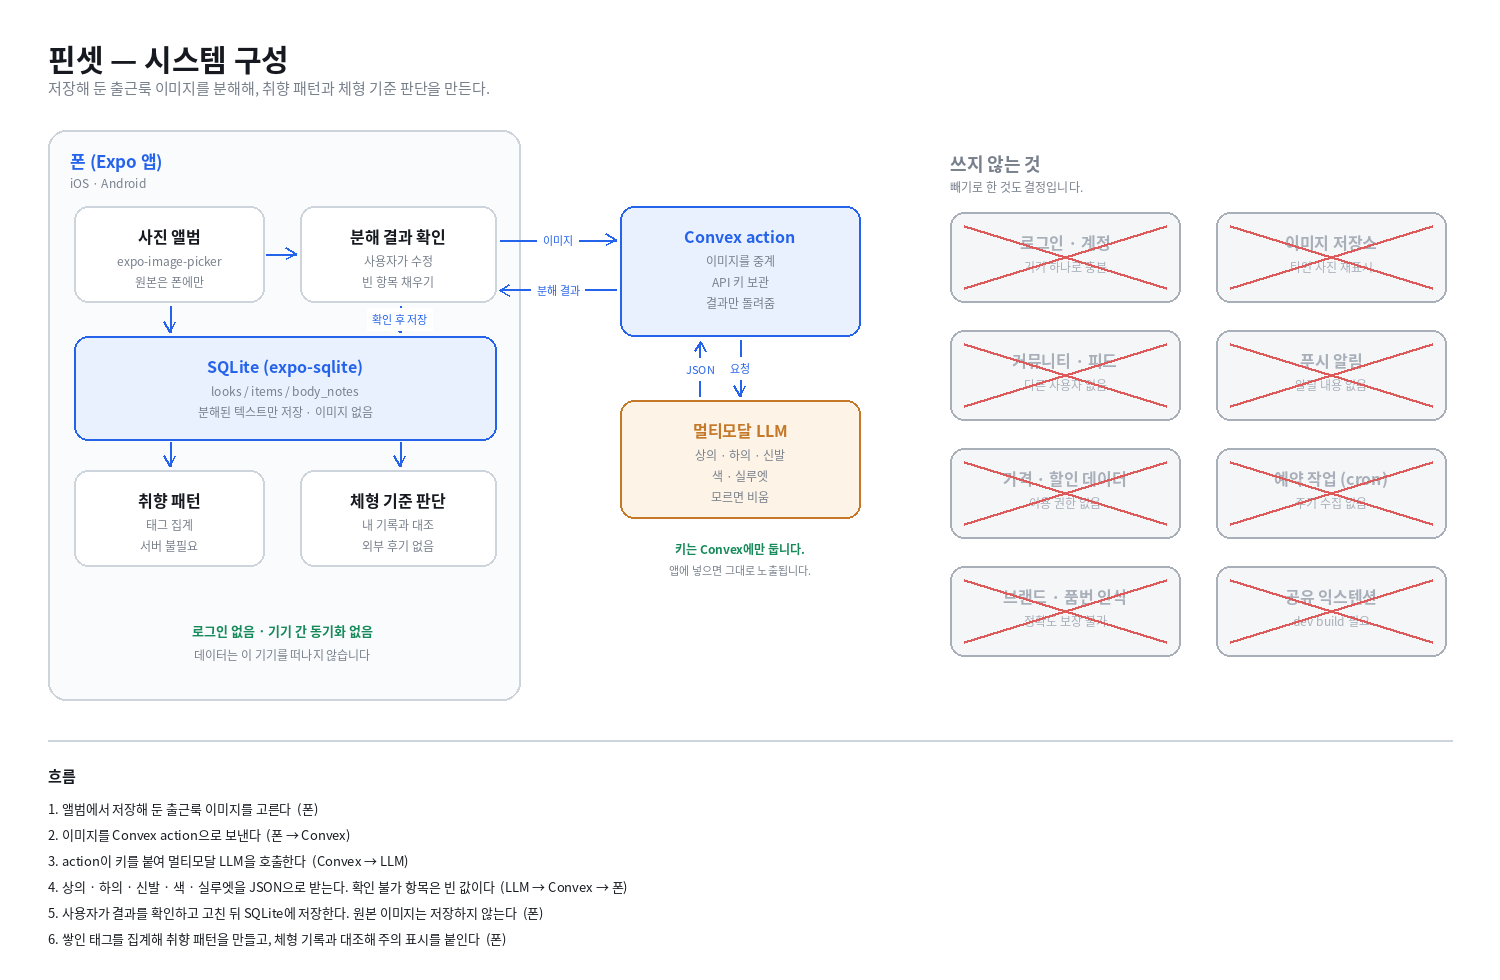
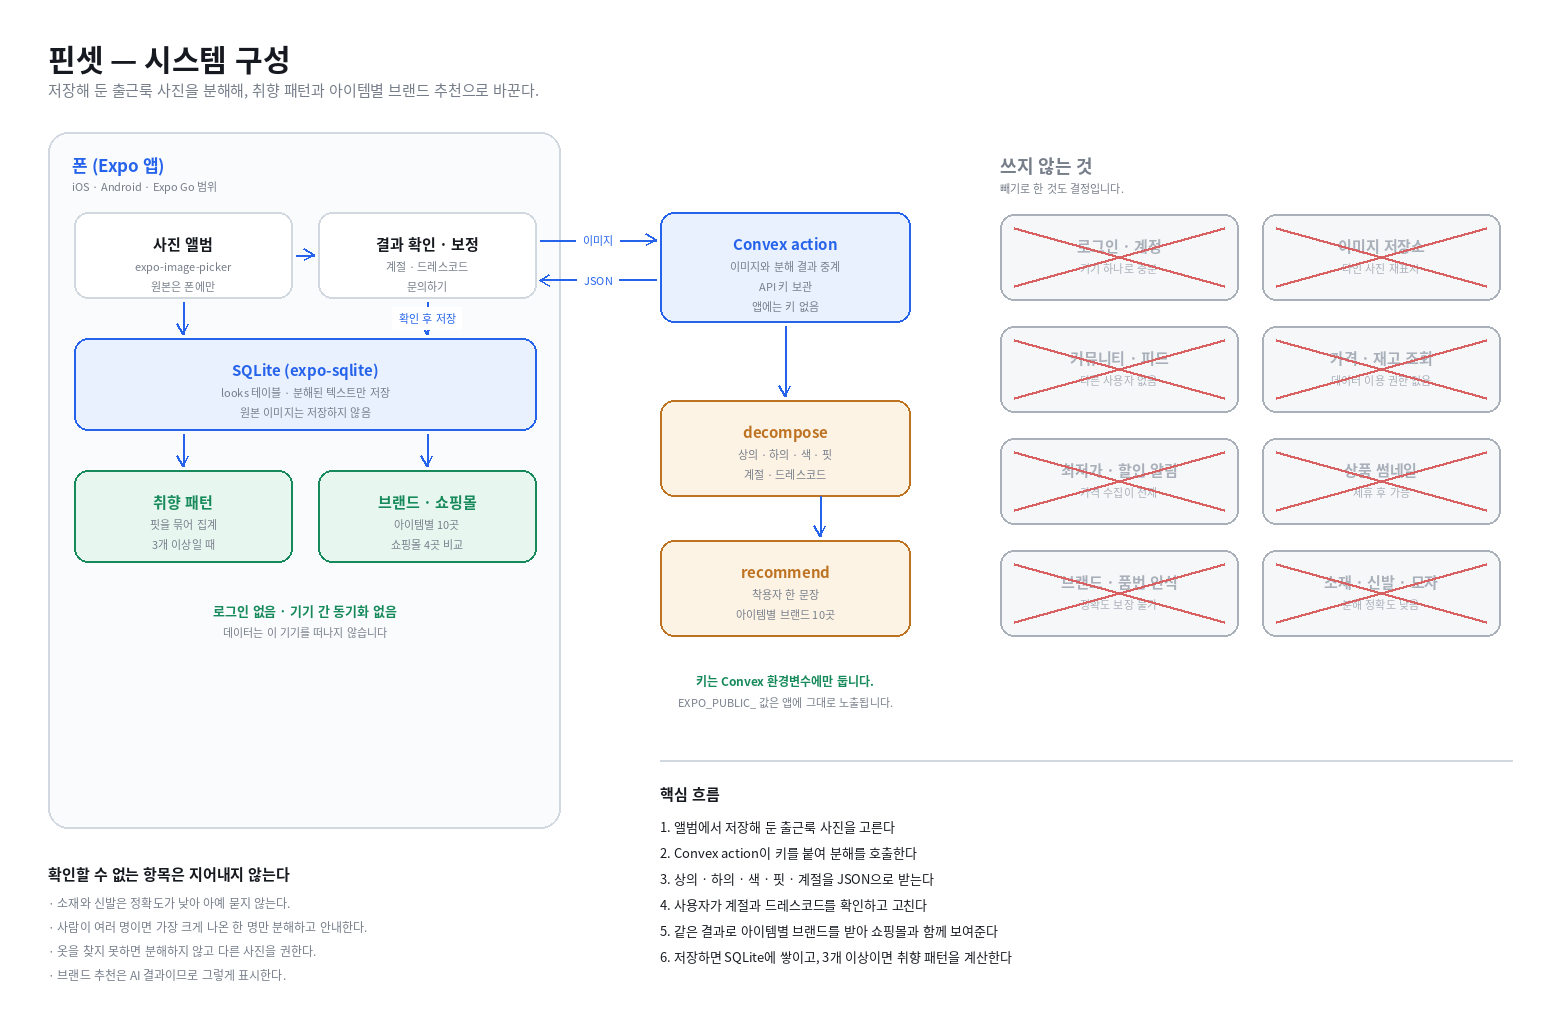
Update architecture diagram and system design

diff --git a/docs/02-system-design.md b/docs/02-system-design.md
@@ -2,11 +2,11 @@
 
 ## Overview
 
-폰에서 도는 Expo 앱 하나와, 이미지 분해 요청을 중계하는 Convex action 하나로 이루어집니다.
+폰에서 도는 Expo 앱 하나와, AI 호출을 중계하는 Convex action 두 개로 이루어집니다.
 
-저장해 둔 출근룩 이미지를 분해하려면 멀티모달 LLM을 호출해야 하고, 그 호출에는 API 키가 필요합니다. 키를 앱에 넣으면 그대로 노출되므로 서버가 필요합니다. Convex action은 그 한 가지 일만 합니다. 거래 데이터에 해당하는 분해 결과는 전부 폰의 SQLite에 저장하므로, Convex에는 아무것도 쌓이지 않습니다.
+저장해 둔 출근룩 사진을 분해하고 브랜드를 추천하려면 멀티모달 LLM을 호출해야 하고, 그 호출에는 API 키가 필요합니다. 키를 앱에 넣으면 그대로 노출되므로 서버가 필요합니다. Convex action은 그 두 가지 호출만 중계하며, 아무 데이터도 저장하지 않습니다.
 
-취향 패턴과 체형 기준 판단은 저장된 태그를 집계하는 일이라 서버 없이 폰에서 계산합니다.
+분해 결과는 전부 폰의 SQLite에 쌓입니다. 취향 패턴은 저장된 태그를 집계하는 일이라 서버 없이 폰에서 계산합니다.
 
 ## Diagram
 
@@ -14,83 +14,110 @@
 
 ## Core flow
 
-1. 앨범에서 저장해 둔 출근룩 이미지를 고른다 — 폰 (`expo-image-picker`)
-2. 이미지를 Convex action으로 보낸다 — 폰 → Convex
-3. action이 환경변수의 키를 붙여 멀티모달 LLM을 호출한다 — Convex → LLM
-4. 상의·하의·신발·색·실루엣을 JSON으로 받는다. 확인할 수 없는 항목은 빈 값이다 — LLM → Convex → 폰
-5. 사용자가 결과를 확인하고 고친 뒤 SQLite에 저장한다. 원본 이미지는 저장하지 않는다 — 폰
-6. 쌓인 태그를 집계해 취향 패턴을 만들고, 체형 기록과 대조해 주의 표시를 붙인다 — 폰
+1. 앨범에서 저장해 둔 출근룩 사진을 고른다 — 폰 (`expo-image-picker`, quality 0.6으로 압축)
+2. 이미지를 `decompose` action으로 보낸다 — 폰 → Convex
+3. action이 환경변수의 키를 붙여 Claude Haiku를 호출한다 — Convex → LLM
+4. 상의·하의의 종류·색·핏, 실루엣, 계절, 드레스코드를 JSON으로 받는다 — LLM → Convex → 폰
+5. 사용자가 계절과 드레스코드를 칩으로 확인하고 고친다 — 폰
+6. 같은 결과를 `recommend` action으로 보내 아이템별 브랜드 10곳을 받는다 — 폰 → Convex → LLM → 폰
+7. 저장하면 SQLite에 쌓이고, 같은 묶음이 3개 이상이면 취향 패턴을 계산한다 — 폰
 
 ## Data
 
-데이터는 전부 폰의 SQLite(`expo-sqlite`)에 둡니다. 원본 이미지는 저장하지 않고, 분해된 텍스트만 남깁니다.
+데이터는 전부 폰의 SQLite(`expo-sqlite`)에 둡니다. 원본 이미지는 저장하지 않고 분해된 텍스트만 남깁니다.
 
-**looks** — 분해한 착장 한 벌
-`id, createdAt, sourceHint, silhouette, dressCode, memo`
+**looks**
+`id INTEGER PK AUTOINCREMENT, createdAt INTEGER, payload TEXT`
 
-**items** — 착장을 이루는 아이템
-`id, lookId, slot(top/bottom/shoes), category, color, fit, length, material, confidence(확실/추정/확인불가)`
+`payload`는 분해 결과 전체를 담은 JSON입니다. 스키마가 자주 바뀌는 단계라 컬럼으로 펼치지 않고 통째로 저장합니다.
 
-**body_notes** — 본인 체형과 과거 기록
-`id, kind(체형/실패/성공), silhouette, note`
+**키: `id`.**
+같은 사진을 두 번 분해해도 사용자가 두 번 저장한 것이므로 다른 행입니다. 중복을 막지 않는 것이 의도입니다. 사진은 저장하지 않으므로 내용으로 같은 행을 식별할 방법이 없고, 같은 룩을 반복 저장하는 것 자체가 취향 신호이기 때문입니다.
 
-**키: looks는 `id`, items는 `(lookId, slot)`.**
-한 착장에 상의·하의·신발이 각각 하나씩이므로, 같은 착장의 같은 자리는 같은 행입니다. 레이어드는 별도 행이 아니라 상의 행의 속성으로 둡니다. 그래야 같은 사진을 두 번 넣어도 중복이 생기지 않습니다.
+브랜드 추천 결과는 저장하지 않습니다. 매번 다시 받는 쪽이 최신이고, 저장해도 재사용 시점이 없습니다.
 
-`AsyncStorage`는 본인 체형 입력을 마쳤는지 같은 설정값에만 씁니다. `SecureStore`는 쓰지 않습니다. 앱이 보관할 비밀 값이 없기 때문입니다.
+`AsyncStorage`와 `SecureStore`는 쓰지 않습니다. 앱이 보관할 비밀 값이 없습니다.
 
 ## Data sources
 
 **① 저장해 둔 이미지 — 폰 기능 (사진 앨범 권한)**
 
-`expo-image-picker`로 앨범에서 고릅니다. Expo Go에서 동작하므로 development build가 필요 없습니다. 가져오는 시점은 사용자가 요청할 때뿐이고, 앱이 앨범을 훑지 않습니다.
+`expo-image-picker`로 앨범에서 고릅니다. Expo Go에서 동작하므로 development build가 필요 없습니다. 사용자가 요청할 때만 가져오고, 앱이 앨범을 훑지 않습니다.
 
-한계: 인스타그램이나 핀터레스트 앱 안의 저장함에는 접근할 수 없습니다. 사용자가 스크린샷을 찍어 앨범에 둔 것만 가져올 수 있습니다. 공유 익스텐션을 만들면 해결되지만 development build가 필요해 이번 범위에서 제외했습니다.
+한계: 인스타그램이나 핀터레스트 앱 안의 저장함에는 접근할 수 없습니다. 스크린샷을 찍어 앨범에 둔 것만 가져올 수 있습니다. 공유 익스텐션으로 해결되지만 development build가 필요해 제외했습니다.
 
-**② 이미지 분해 — 멀티모달 LLM**
+원본 크기로 보내면 요청이 너무 커서 실패합니다. `quality: 0.6`으로 압축해 보냅니다.
 
-실제로 한 번 불러본 결과: `docs/samples/decompose-sample.json`
+**② 이미지 분해 — Claude Haiku (멀티모달)**
 
-출근룩 이미지 4장을 넣어 확인했습니다. 상의·하의의 종류와 색, 실루엣은 4/4 정확했습니다. 신발은 2/4만 가능했고, 바지에 가리거나 프레임 밖인 경우 판단할 수 없었습니다. 소재는 0/4로, 어느 장에서도 확정하지 못했습니다. 역광에서는 어두운 상의의 조직이 날아갔습니다.
+실제로 불러본 결과: `docs/samples/decompose-sample.json`, `docs/samples/decompose-live.json`
 
-이 결과를 보고 설계를 바꿨습니다. **확인할 수 없는 항목은 지어내지 않고 빈 값으로 돌려받아, 사용자가 채우게 합니다.** `confidence` 필드가 그래서 생겼습니다.
+출근룩 이미지 4장으로 확인했습니다. 상의·하의의 종류와 색, 실루엣은 4/4 정확했습니다. 신발은 2/4만 가능했고, 바지에 가리거나 프레임 밖인 경우 판단할 수 없었습니다. 소재는 0/4로 어느 장에서도 확정하지 못했습니다.
 
-한계: 아직 API 키가 없어 수동 호출로 확인했습니다. 앱에서는 같은 요청을 Convex action이 보냅니다. 호출당 비용이 들고, 네트워크가 없으면 분해할 수 없습니다.
+이 결과를 보고 설계를 바꿨습니다. **소재·신발·모자·가방은 아예 묻지 않습니다.** 정확도가 낮은 항목을 지우는 것이 비워 두는 것보다 낫다고 판단했습니다. 계절과 드레스코드는 추정이 가능하되 틀릴 수 있어, 추정값을 미리 선택해 두고 사용자가 칩으로 고칩니다.
 
-막히면: 분해 정확도가 실사용에서 더 낮으면, 자동 분해를 빼고 사용자가 태그를 직접 고르는 형태로 좁힙니다. 취향 패턴과 체형 판단은 태그만 있으면 그대로 동작합니다.
+사람이 여러 명이면 가장 크게 나온 한 명만 분해하고 `multiple: true`를 함께 돌려받아 화면에 안내합니다. 옷을 알아볼 수 없으면 `{"error": "no_clothes"}`만 돌려받고 분해하지 않습니다.
 
-**③ 체형 기록 — 사용자 입력**
+한계: 호출당 비용이 들고, 네트워크가 없으면 분해할 수 없습니다.
 
-본인이 한 번 입력합니다. 외부에서 가져오지 않습니다.
+**③ 브랜드 추천 — Claude Haiku (텍스트)**
 
-비슷한 체형인 사람들의 후기를 모아 보여주는 방식도 검토했지만, 무신사·29CM·지그재그의 공개 자료에서 외부 앱이 리뷰 데이터를 가져와 재표시할 권한은 확인하지 못했습니다. 크롤링은 데이터베이스권과 부정경쟁방지법 문제가 있어 선택지에서 제외했습니다.
+분해 결과와 성별을 넣어 착용자 한 문장과 아이템별 브랜드 10곳을 받습니다. 상의·겹쳐 입은 이너·하의 각각에 따로 추천합니다.
+
+한계: LLM이 존재하지 않는 브랜드를 만들어낼 수 있습니다. 화면에 "AI 추천이라 실제와 다를 수 있어요"를 표시하고, 탭하면 쇼핑몰 검색으로 연결해 결과가 비어도 치명적이지 않게 했습니다.
+
+응답이 길어 5~10초 걸립니다. 분해 결과를 먼저 보여주고 브랜드는 뒤이어 채웁니다.
+
+**④ 쇼핑몰 가격 — 쓰지 않음**
+
+앱 안에서 가격을 보여주려면 각 쇼핑몰의 상품 데이터를 가져와야 합니다. 무신사·29CM·지그재그의 공개 자료에서 외부 앱이 전 상품 가격을 조회·저장·재표시할 수 있는 API와 이용 조건은 확인하지 못했습니다. 큐레이터 프로그램은 링크 공유 권한이지 데이터 이용 권한이 아닙니다. 네이버 쇼핑 검색 API는 2026년 7월 31일 종료됐습니다. 크롤링은 데이터베이스권과 부정경쟁방지법 문제가 있어 제외했습니다.
+
+대신 브랜드마다 쇼핑몰 네 곳의 검색 링크를 두어, 사용자가 하나씩 눌러 가격을 비교하게 했습니다. 앱이 가격을 못 가져오는 제약은 그대로 두되 목적은 달성하는 구조입니다.
 
 ## Decisions
 
-### 이미지 분해는 Convex action을 거친다
+### AI 호출은 Convex action을 거친다
 
 | | |
 |---|---|
-| 선택지 | 앱에서 LLM 직접 호출 · Convex action 경유 · 기기 내 모델 |
+| 선택지 | 앱에서 직접 호출 · Convex action 경유 · 기기 내 모델 |
 | 고른 것 | Convex action 경유 |
-| 이유 | API 키를 앱에 넣으면 그대로 노출됩니다. `EXPO_PUBLIC_`으로 시작하는 값은 빌드에 포함됩니다. 기기 내 모델은 Expo Go에서 돌지 않고 development build가 필요합니다. |
-| 대가 | 네트워크가 없으면 분해할 수 없고, 호출마다 비용이 듭니다. |
+| 이유 | API 키를 앱에 넣으면 그대로 노출됩니다. `EXPO_PUBLIC_`으로 시작하는 값은 빌드에 포함됩니다. 기기 내 모델은 Expo Go에서 돌지 않습니다. |
+| 대가 | 네트워크가 없으면 동작하지 않고, 호출마다 비용이 듭니다. |
 
-### 분해 결과만 저장하고 원본 이미지는 폰에 둔다
+### 정확도가 낮은 항목은 묻지 않는다
 
 | | |
 |---|---|
-| 선택지 | 원본을 서버에 저장 · 원본을 폰에만 두고 텍스트만 저장 |
-| 고른 것 | 텍스트만 저장 |
-| 이유 | 입력 이미지는 대부분 타인의 사진입니다. 서버에 올려 다시 보여주면 권리 문제가 생깁니다. 텍스트 분해 결과에는 그 문제가 없고, 취향 패턴과 체형 판단에는 텍스트만 있으면 충분합니다. |
-| 대가 | 폰에서 원본을 지우면 어떤 사진이었는지 다시 볼 수 없습니다. 기기를 바꾸면 데이터가 사라집니다. |
+| 선택지 | 전부 묻고 빈 값 허용 · 정확도 낮은 항목 제거 · 전부 사용자 입력 |
+| 고른 것 | 소재·신발·모자·가방 제거, 계절·드레스코드는 추정 후 칩으로 보정 |
+| 이유 | 측정 결과 소재 0/4, 신발 2/4였습니다. 틀린 값을 보여주면 전체 신뢰가 떨어지고, 매번 되묻는 절차는 사용자가 중간에 그만두는 원인이 됩니다. |
+| 대가 | 신발을 기준으로 한 추천과 패턴은 불가능합니다. |
 
-### iOS와 Android 둘 다 내되, Expo Go 범위 안에서만 만든다
+### 가격 대신 쇼핑몰 링크를 여러 개 둔다
+
+| | |
+|---|---|
+| 선택지 | 앱 안에 가격 표시 · 최저가 비교 · 브랜드별 쇼핑몰 링크 |
+| 고른 것 | 브랜드별 쇼핑몰 링크 네 곳 |
+| 이유 | 가격 데이터를 가져올 권한이 확인되지 않았습니다. 링크는 권한이 필요 없고, 사용자는 한 번 더 탭해서 가격을 봅니다. |
+| 대가 | 앱 안에서 가격을 비교할 수 없고, 상품 썸네일도 보여줄 수 없습니다. 제휴가 성사되면 다시 검토합니다. |
+
+### 패턴은 핏을 묶어서 센다
+
+| | |
+|---|---|
+| 선택지 | 핏 원값으로 집계 · 상·하의 최빈값 따로 · 핏을 묶어 조합으로 집계 |
+| 고른 것 | 붙는·적당한·넉넉한 세 묶음으로 바꿔 조합 단위로 집계 |
+| 이유 | 상·하의 최빈값을 따로 뽑으면 실제로 저장한 적 없는 조합이 만들어집니다. 핏 원값은 열 가지라 저장이 쌓여도 겹치지 않습니다. |
+| 대가 | "크롭 + 부츠컷"처럼 세밀한 패턴은 잡히지 않습니다. 화면의 개별 카드에는 원값을 그대로 보여줍니다. |
+
+### iOS와 Android 둘 다 내되 Expo Go 범위 안에서만 만든다
 
 | | |
 |---|---|
 | 선택지 | 한쪽만 · 둘 다 (Expo Go) · 둘 다 (development build) |
 | 고른 것 | 둘 다, Expo Go 범위 |
-| 이유 | 이번 기능은 앨범 접근과 네트워크 호출뿐이라 Expo Go에서 전부 됩니다. development build를 쓰면 빌드 환경을 두 플랫폼에 각각 갖춰야 하는데, 1인 3주에서 그 시간을 쓸 이유가 없습니다. |
-| 대가 | 공유 익스텐션과 기기 내 모델을 쓸 수 없습니다. 그래서 인스타그램에서 바로 보내는 흐름을 포기하고 앨범에서 고르는 방식으로 좁혔습니다. |
-| 위험 | iOS 베타 배포에는 Apple Developer 계정과 TestFlight 첫 빌드 심사가 필요합니다. 아직 계정이 없어, 이것이 11/20 배포의 가장 큰 일정 위험입니다. 11월 첫 주에 가입을 끝냅니다. |
+| 이유 | 앨범 접근과 네트워크 호출뿐이라 Expo Go에서 전부 됩니다. |
+| 대가 | 공유 익스텐션을 쓸 수 없어, 인스타그램에서 바로 보내는 흐름을 포기하고 앨범에서 고르는 방식으로 좁혔습니다. |
+| 현황 | Android는 EAS로 APK를 빌드해 배포했습니다. iOS는 Apple Developer 계정이 필요해 이번 베타에서는 Expo Go로만 확인했습니다. |
